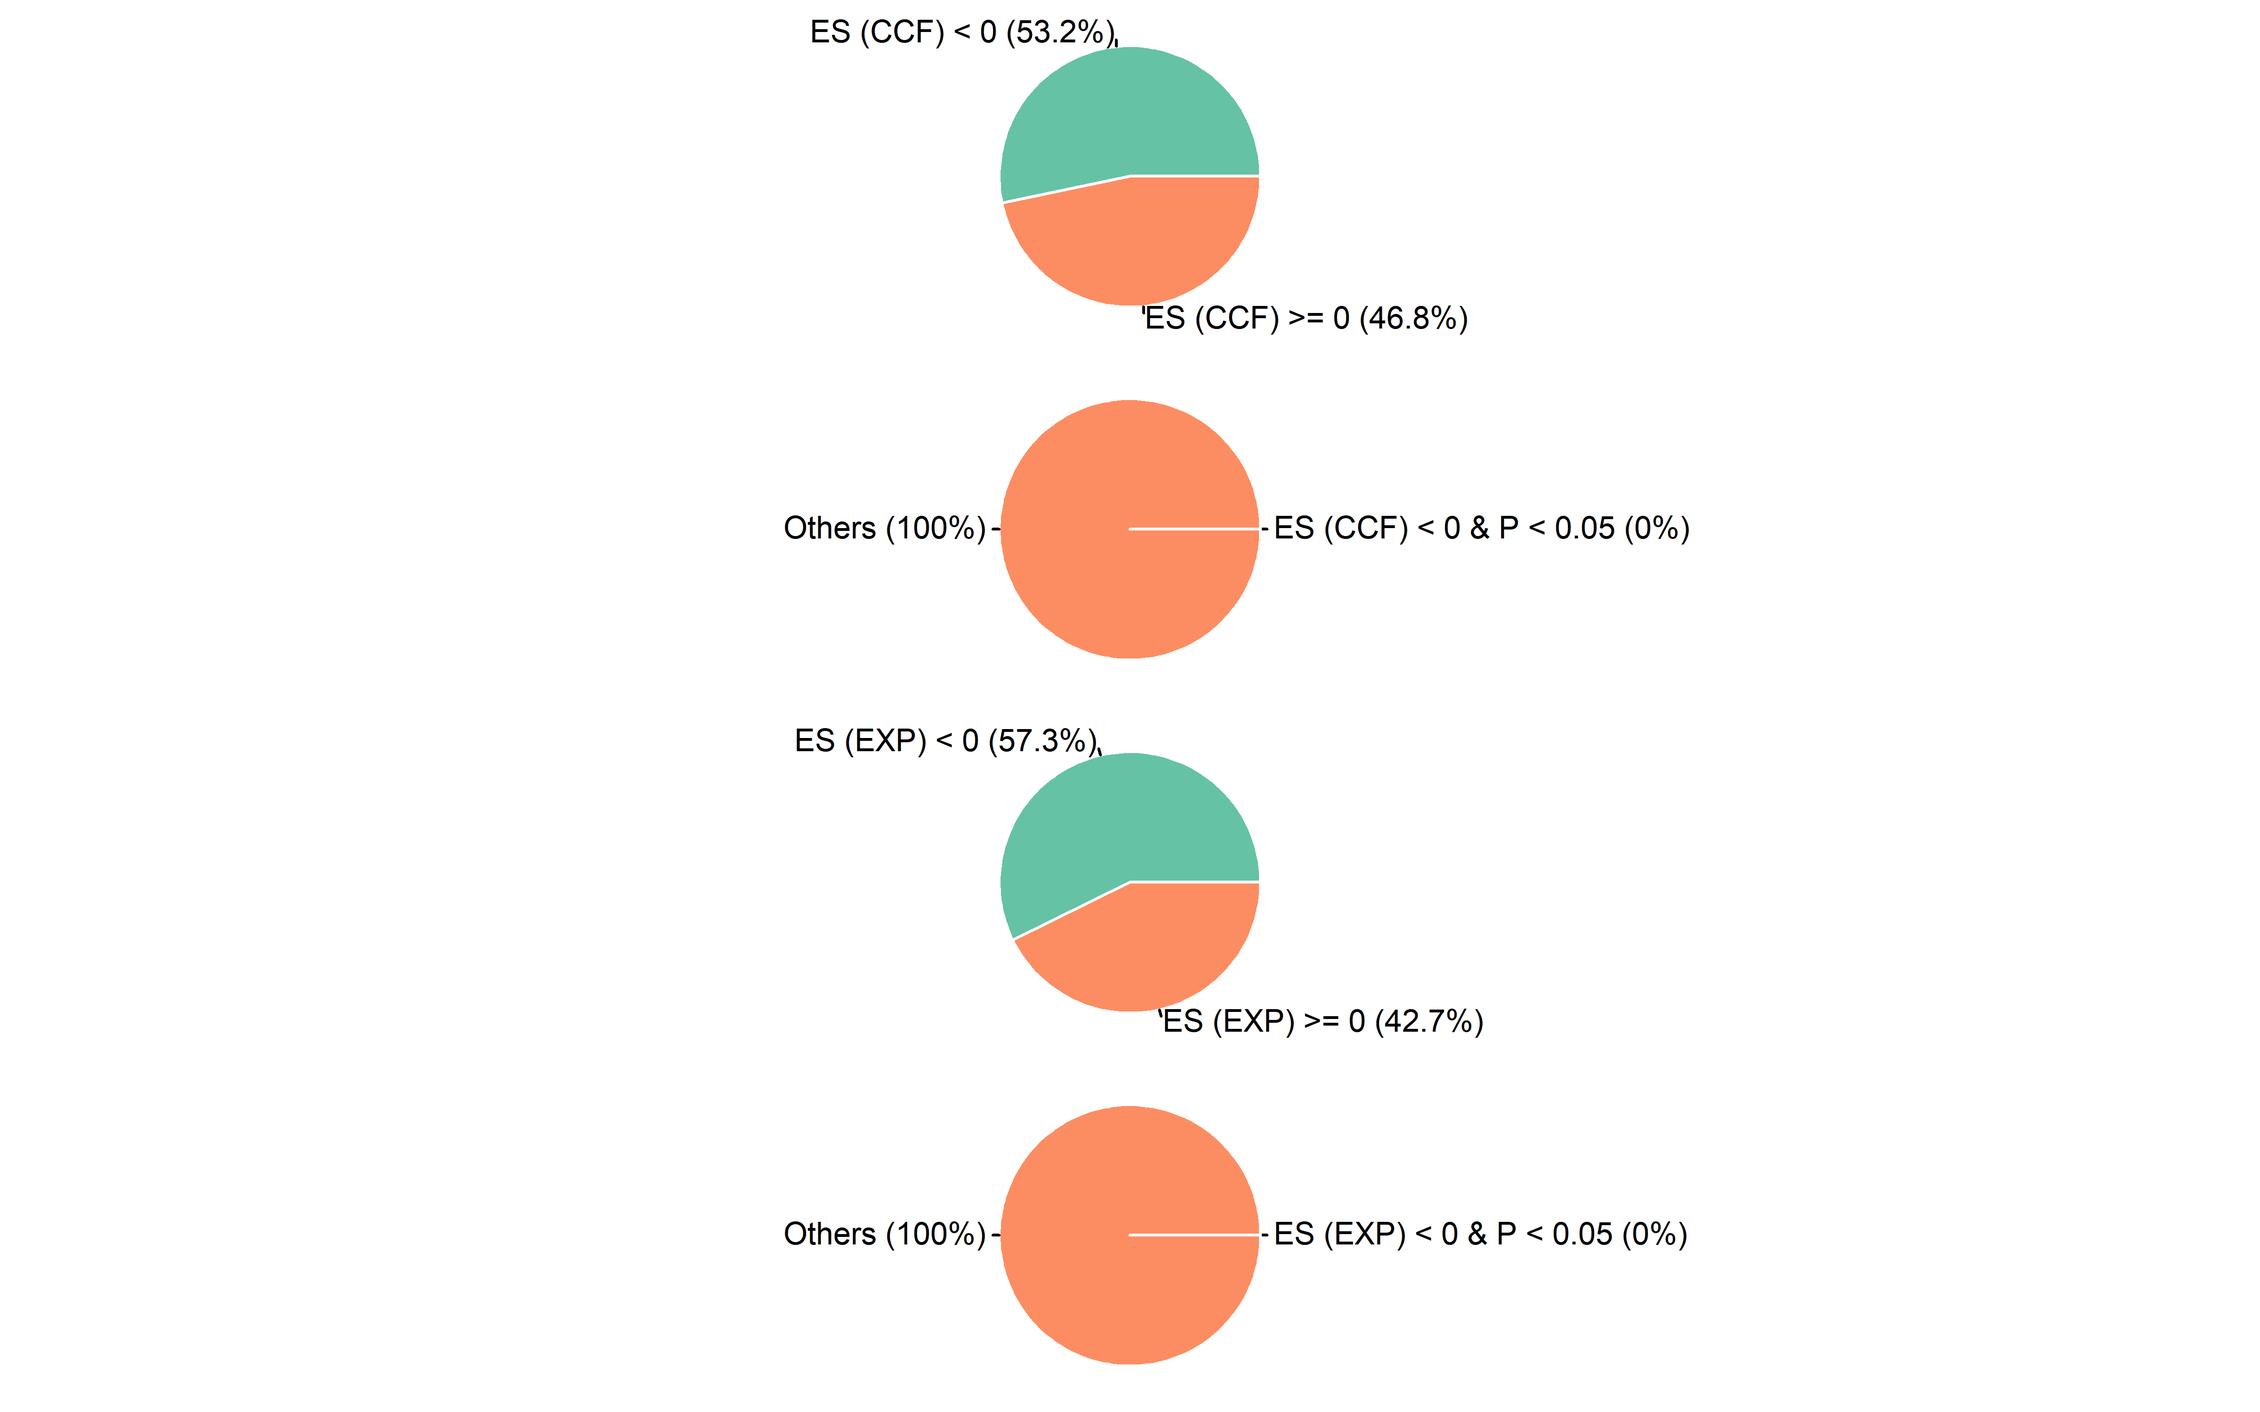
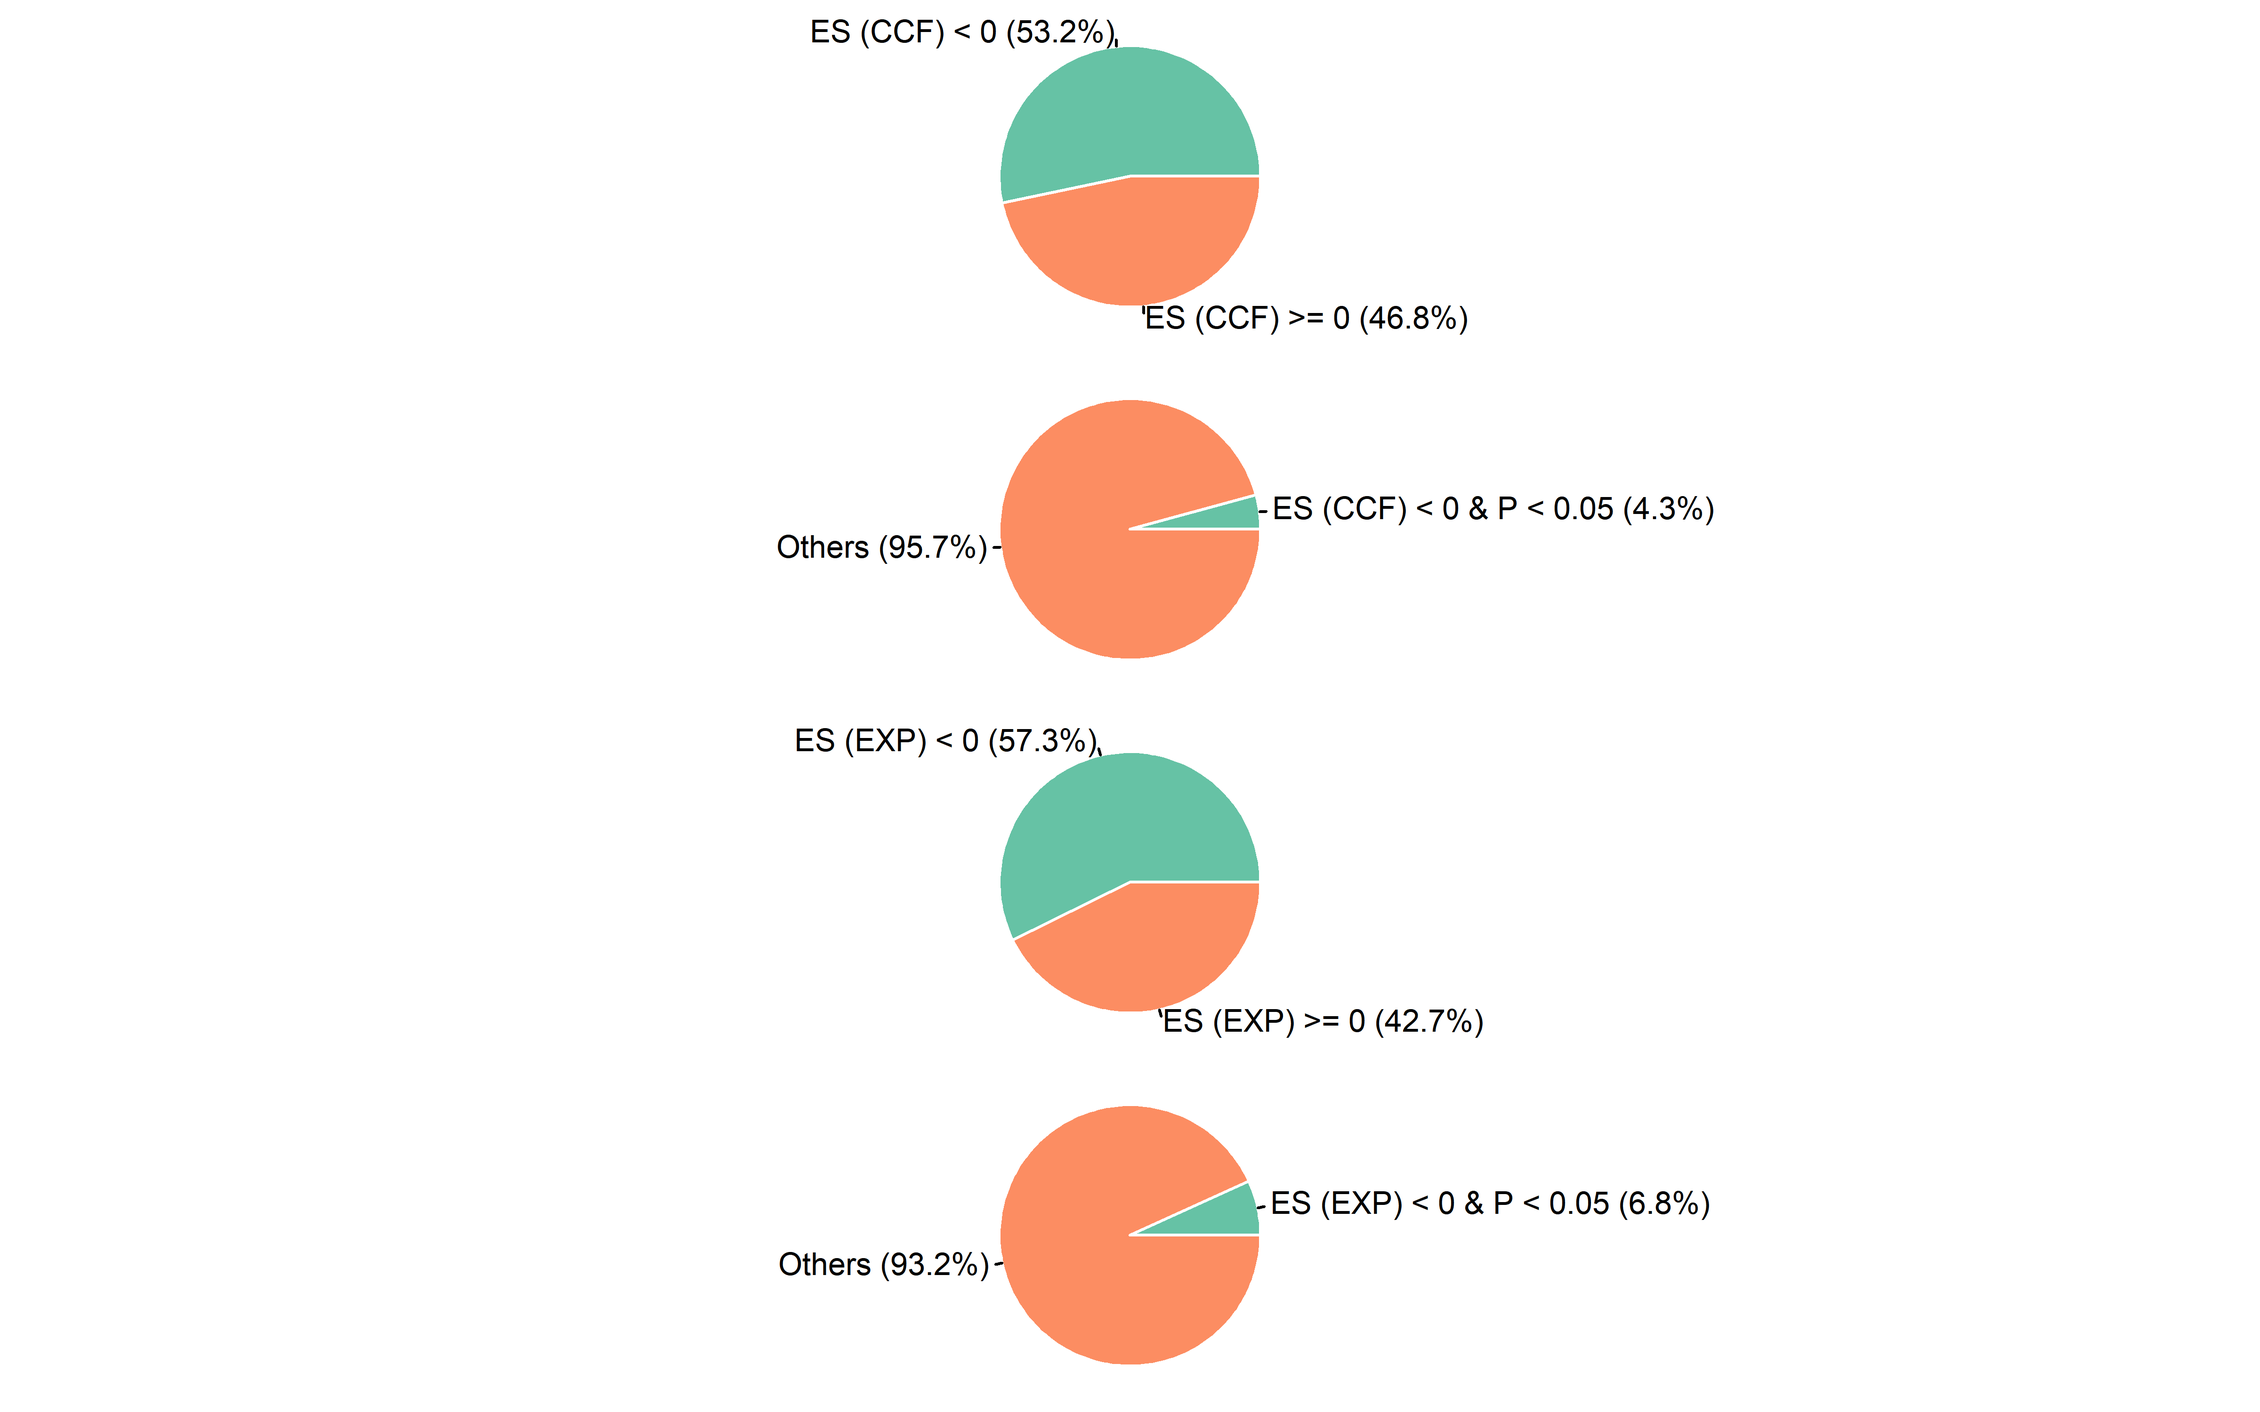
update

diff --git a/report/report_main.html b/report/report_main.html
@@ -293,8 +293,8 @@
 <span id="cb3-2"><a href="#cb3-2" aria-hidden="true" tabindex="-1"></a>DT<span class="sc">::</span><span class="fu">datatable</span>(<span class="fu">head</span>(pancancer_mutation),</span>
 <span id="cb3-3"><a href="#cb3-3" aria-hidden="true" tabindex="-1"></a>  <span class="at">options =</span> <span class="fu">list</span>(<span class="at">scrollX =</span> <span class="cn">TRUE</span>, <span class="at">keys =</span> <span class="cn">TRUE</span>), <span class="at">rownames =</span> <span class="cn">FALSE</span></span>
 <span id="cb3-4"><a href="#cb3-4" aria-hidden="true" tabindex="-1"></a>)</span></code></pre></div>
-<div id="htmlwidget-e5719218a276043094a0" style="width:100%;height:auto;" class="datatables html-widget"></div>
-<script type="application/json" data-for="htmlwidget-e5719218a276043094a0">{"x":{"filter":"none","data":[["TCGA-P6-A5OH-01A","TCGA-P6-A5OH-01A","TCGA-P6-A5OH-01A","TCGA-P6-A5OH-01A","TCGA-P6-A5OH-01A","TCGA-P6-A5OH-01A"],["WASF2","MACF1","NFIA","CADM3","DUSP27","RGSL1"],["chr1","chr1","chr1","chr1","chr1","chr1"],[27410171,39455094,61088434,159200836,167126702,182556049],[27410171,39455094,61088434,159200836,167126702,182556049],["G","T","C","G","G","G"],["A","A","T","A","C","C"],["p.A287V","p.H6923Q","p.L105F","p.D371N","p.G524A","p.E1075Q"],["missense_variant","missense_variant","missense_variant","missense_variant","missense_variant","missense_variant"],["PASS","PASS","PASS","PASS","PASS","PASS"],[0.25531914893617,0.0720720720720721,0.152671755725191,0.299479166666667,0.0555555555555556,0.2734375]],"container":"<table class=\"display\">\n  <thead>\n    <tr>\n      <th>Sample_ID<\/th>\n      <th>gene<\/th>\n      <th>chrom<\/th>\n      <th>start<\/th>\n      <th>end<\/th>\n      <th>ref<\/th>\n      <th>alt<\/th>\n      <th>Amino_Acid_Change<\/th>\n      <th>effect<\/th>\n      <th>filter<\/th>\n      <th>dna_vaf<\/th>\n    <\/tr>\n  <\/thead>\n<\/table>","options":{"scrollX":true,"keys":true,"columnDefs":[{"className":"dt-right","targets":[3,4,10]}],"order":[],"autoWidth":false,"orderClasses":false}},"evals":[],"jsHooks":[]}</script>
+<div id="htmlwidget-fd65ec6f0842ab086aec" style="width:100%;height:auto;" class="datatables html-widget"></div>
+<script type="application/json" data-for="htmlwidget-fd65ec6f0842ab086aec">{"x":{"filter":"none","data":[["TCGA-P6-A5OH-01A","TCGA-P6-A5OH-01A","TCGA-P6-A5OH-01A","TCGA-P6-A5OH-01A","TCGA-P6-A5OH-01A","TCGA-P6-A5OH-01A"],["WASF2","MACF1","NFIA","CADM3","DUSP27","RGSL1"],["chr1","chr1","chr1","chr1","chr1","chr1"],[27410171,39455094,61088434,159200836,167126702,182556049],[27410171,39455094,61088434,159200836,167126702,182556049],["G","T","C","G","G","G"],["A","A","T","A","C","C"],["p.A287V","p.H6923Q","p.L105F","p.D371N","p.G524A","p.E1075Q"],["missense_variant","missense_variant","missense_variant","missense_variant","missense_variant","missense_variant"],["PASS","PASS","PASS","PASS","PASS","PASS"],[0.25531914893617,0.0720720720720721,0.152671755725191,0.299479166666667,0.0555555555555556,0.2734375]],"container":"<table class=\"display\">\n  <thead>\n    <tr>\n      <th>Sample_ID<\/th>\n      <th>gene<\/th>\n      <th>chrom<\/th>\n      <th>start<\/th>\n      <th>end<\/th>\n      <th>ref<\/th>\n      <th>alt<\/th>\n      <th>Amino_Acid_Change<\/th>\n      <th>effect<\/th>\n      <th>filter<\/th>\n      <th>dna_vaf<\/th>\n    <\/tr>\n  <\/thead>\n<\/table>","options":{"scrollX":true,"keys":true,"columnDefs":[{"className":"dt-right","targets":[3,4,10]}],"order":[],"autoWidth":false,"orderClasses":false}},"evals":[],"jsHooks":[]}</script>
 <p>To predict neoantigen, mutation files were first transformed into single sample VCF format by maf2vcf tools (This Code can be found in <code>code/shell/TCGA_neoantigen</code> folder).</p>
 <p>ABSOLUTE-annotated MAF file which contains cancer cell fraction (CCF) information of mutations was downloaded from GDC PanCanAtlas publications (<a href="https://gdc.cancer.gov/node/905/">TCGA_consolidated.abs_mafs_truncated.fixed.txt.gz</a>), and then we used liftover function from R package “rtracklayer” to convert the this hg37 genome coordinates file to hg38 coordinates:</p>
 <div class="sourceCode" id="cb4"><pre class="sourceCode r"><code class="sourceCode r"><span id="cb4-1"><a href="#cb4-1" aria-hidden="true" tabindex="-1"></a>absolute_maf <span class="ot">&lt;-</span> data.table<span class="sc">::</span><span class="fu">fread</span>(<span class="st">&quot;~/useful_data/TCGA_consolidated.abs_mafs_truncated.fixed.txt&quot;</span>)</span>
@@ -381,8 +381,8 @@
 <span id="cb9-2"><a href="#cb9-2" aria-hidden="true" tabindex="-1"></a>DT<span class="sc">::</span><span class="fu">datatable</span>(<span class="fu">head</span>(pancancer_immune),</span>
 <span id="cb9-3"><a href="#cb9-3" aria-hidden="true" tabindex="-1"></a>  <span class="at">options =</span> <span class="fu">list</span>(<span class="at">scrollX =</span> <span class="cn">TRUE</span>, <span class="at">keys =</span> <span class="cn">TRUE</span>), <span class="at">rownames =</span> <span class="cn">FALSE</span></span>
 <span id="cb9-4"><a href="#cb9-4" aria-hidden="true" tabindex="-1"></a>)</span></code></pre></div>
-<div id="htmlwidget-4bfd59674dbe79054aec" style="width:100%;height:auto;" class="datatables html-widget"></div>
-<script type="application/json" data-for="htmlwidget-4bfd59674dbe79054aec">{"x":{"filter":"none","data":[["TCGA-OR-A5J1-01A","TCGA-OR-A5J2-01A","TCGA-OR-A5J3-01A","TCGA-OR-A5J5-01A","TCGA-OR-A5J6-01A","TCGA-OR-A5J7-01A"],[0,0,0.089,0.014,0,0.042],[0.115,0.114,0.087,0.218,0,0.069],[0.436,0.427,0.192,0.406,0.537,0.218],[0.035,0.08,0,0.003,0.105,0.02],[0.04,0.104,0.033,0.079,0.123,0.174],[0.048,0.025,0,0,0.11,0.013],[0.065,0.245,0,0,0.156,0.003],[0.158,0.152,0.069,0.004,0.148,0.025],[0.334,0.219,0,0.082,0.325,0],[0.057,0.044,0.253,0.114,0.203,0.112],[0.075,0.115,0,0.055,0.03,0.043],[0,0.087,0.061,0,0,0.041],[0.027,0.012,0,0,0.031,0],[0,0.143,0.07,0.105,0,0.043],[0.278,0.163,0.045,0.173,0.17,0.051],[0.15,0.207,0.149,0.088,0.224,0.13],[0.026,0.068,0.067,0.114,0.038,0.14],[0.104,0.095,0.076,0.148,0.172,0.086],[0.182,0.102,0.085,0.085,0.275,0.112],[0.162,0.003,0.146,0.254,0.377,0.179],[0.115,0.106,0.162,0.122,0.115,0.157],[0.089,0.07,0.13,0.151,0.09,0.06],[0.102,0.084,0.123,0.087,0.058,0.094],[0.201,0.211,0.046,0.156,0.206,0.048],[0.606,0.508,0.496,0.613,0.851,0.549]],"container":"<table class=\"display\">\n  <thead>\n    <tr>\n      <th>sample<\/th>\n      <th>CD4_naive<\/th>\n      <th>CD8_naive<\/th>\n      <th>Tc<\/th>\n      <th>Tex<\/th>\n      <th>Tr1<\/th>\n      <th>nTreg<\/th>\n      <th>iTreg<\/th>\n      <th>Th1<\/th>\n      <th>Th2<\/th>\n      <th>Th17<\/th>\n      <th>Tfh<\/th>\n      <th>Tcm<\/th>\n      <th>Tem<\/th>\n      <th>NKT<\/th>\n      <th>MAIT<\/th>\n      <th>DC<\/th>\n      <th>B_cell<\/th>\n      <th>Monocyte<\/th>\n      <th>Macrophage<\/th>\n      <th>NK<\/th>\n      <th>Neutrophil<\/th>\n      <th>Tgd<\/th>\n      <th>CD4_T<\/th>\n      <th>CD8_T<\/th>\n      <th>InfiltrationScore<\/th>\n    <\/tr>\n  <\/thead>\n<\/table>","options":{"scrollX":true,"keys":true,"columnDefs":[{"className":"dt-right","targets":[1,2,3,4,5,6,7,8,9,10,11,12,13,14,15,16,17,18,19,20,21,22,23,24,25]}],"order":[],"autoWidth":false,"orderClasses":false}},"evals":[],"jsHooks":[]}</script>
+<div id="htmlwidget-1fd2c59a30ae3a903aa7" style="width:100%;height:auto;" class="datatables html-widget"></div>
+<script type="application/json" data-for="htmlwidget-1fd2c59a30ae3a903aa7">{"x":{"filter":"none","data":[["TCGA-OR-A5J1-01A","TCGA-OR-A5J2-01A","TCGA-OR-A5J3-01A","TCGA-OR-A5J5-01A","TCGA-OR-A5J6-01A","TCGA-OR-A5J7-01A"],[0,0,0.089,0.014,0,0.042],[0.115,0.114,0.087,0.218,0,0.069],[0.436,0.427,0.192,0.406,0.537,0.218],[0.035,0.08,0,0.003,0.105,0.02],[0.04,0.104,0.033,0.079,0.123,0.174],[0.048,0.025,0,0,0.11,0.013],[0.065,0.245,0,0,0.156,0.003],[0.158,0.152,0.069,0.004,0.148,0.025],[0.334,0.219,0,0.082,0.325,0],[0.057,0.044,0.253,0.114,0.203,0.112],[0.075,0.115,0,0.055,0.03,0.043],[0,0.087,0.061,0,0,0.041],[0.027,0.012,0,0,0.031,0],[0,0.143,0.07,0.105,0,0.043],[0.278,0.163,0.045,0.173,0.17,0.051],[0.15,0.207,0.149,0.088,0.224,0.13],[0.026,0.068,0.067,0.114,0.038,0.14],[0.104,0.095,0.076,0.148,0.172,0.086],[0.182,0.102,0.085,0.085,0.275,0.112],[0.162,0.003,0.146,0.254,0.377,0.179],[0.115,0.106,0.162,0.122,0.115,0.157],[0.089,0.07,0.13,0.151,0.09,0.06],[0.102,0.084,0.123,0.087,0.058,0.094],[0.201,0.211,0.046,0.156,0.206,0.048],[0.606,0.508,0.496,0.613,0.851,0.549]],"container":"<table class=\"display\">\n  <thead>\n    <tr>\n      <th>sample<\/th>\n      <th>CD4_naive<\/th>\n      <th>CD8_naive<\/th>\n      <th>Tc<\/th>\n      <th>Tex<\/th>\n      <th>Tr1<\/th>\n      <th>nTreg<\/th>\n      <th>iTreg<\/th>\n      <th>Th1<\/th>\n      <th>Th2<\/th>\n      <th>Th17<\/th>\n      <th>Tfh<\/th>\n      <th>Tcm<\/th>\n      <th>Tem<\/th>\n      <th>NKT<\/th>\n      <th>MAIT<\/th>\n      <th>DC<\/th>\n      <th>B_cell<\/th>\n      <th>Monocyte<\/th>\n      <th>Macrophage<\/th>\n      <th>NK<\/th>\n      <th>Neutrophil<\/th>\n      <th>Tgd<\/th>\n      <th>CD4_T<\/th>\n      <th>CD8_T<\/th>\n      <th>InfiltrationScore<\/th>\n    <\/tr>\n  <\/thead>\n<\/table>","options":{"scrollX":true,"keys":true,"columnDefs":[{"className":"dt-right","targets":[1,2,3,4,5,6,7,8,9,10,11,12,13,14,15,16,17,18,19,20,21,22,23,24,25]}],"order":[],"autoWidth":false,"orderClasses":false}},"evals":[],"jsHooks":[]}</script>
 </div>
 </div>
 <div id="tcga-pancancer-data-processing" class="section level2">
@@ -1819,14 +1819,14 @@
 <span id="cb45-9"><a href="#cb45-9" aria-hidden="true" tabindex="-1"></a>op <span class="ot">&lt;-</span> <span class="fu">par</span>(<span class="at">mar =</span> <span class="fu">rep</span>(<span class="dv">0</span>, <span class="dv">4</span>))</span>
 <span id="cb45-10"><a href="#cb45-10" aria-hidden="true" tabindex="-1"></a><span class="fu">plot_pie</span>(ccf_es,<span class="at">expression =</span> <span class="st">&quot;ccf_es&lt;0&quot;</span>,<span class="fu">c</span>(<span class="st">&quot;ES (CCF) &lt; 0&quot;</span>,<span class="st">&quot;ES (CCF) &gt;= 0&quot;</span>))</span>
 <span id="cb45-11"><a href="#cb45-11" aria-hidden="true" tabindex="-1"></a><span class="co">#&gt; NULL</span></span>
-<span id="cb45-12"><a href="#cb45-12" aria-hidden="true" tabindex="-1"></a><span class="fu">plot_pie</span>(ccf_es1,<span class="at">expression =</span> <span class="st">&quot;ccf_es1==&#39;ES (CCF) &lt; 0 &amp; P &lt; 0.05&#39;&quot;</span>,<span class="fu">c</span>(<span class="st">&quot;ES (CCF) &lt; 0 &amp; P &lt; 0.05&quot;</span>,<span class="st">&quot;Others&quot;</span>))</span>
+<span id="cb45-12"><a href="#cb45-12" aria-hidden="true" tabindex="-1"></a><span class="fu">plot_pie</span>(ccf_es1,<span class="at">expression =</span> <span class="st">&quot;ccf_es1==&#39;ES &lt; 0 &amp; P &lt; 0.05&#39;&quot;</span>,<span class="fu">c</span>(<span class="st">&quot;ES (CCF) &lt; 0 &amp; P &lt; 0.05&quot;</span>,<span class="st">&quot;Others&quot;</span>))</span>
 <span id="cb45-13"><a href="#cb45-13" aria-hidden="true" tabindex="-1"></a><span class="co">#&gt; NULL</span></span>
 <span id="cb45-14"><a href="#cb45-14" aria-hidden="true" tabindex="-1"></a></span>
 <span id="cb45-15"><a href="#cb45-15" aria-hidden="true" tabindex="-1"></a>exp_es <span class="ot">&lt;-</span> pancancer_exp<span class="sc">$</span>es</span>
 <span id="cb45-16"><a href="#cb45-16" aria-hidden="true" tabindex="-1"></a>exp_es1 <span class="ot">&lt;-</span> pancancer_exp<span class="sc">$</span>es_type2</span>
 <span id="cb45-17"><a href="#cb45-17" aria-hidden="true" tabindex="-1"></a><span class="fu">plot_pie</span>(exp_es,<span class="at">expression =</span> <span class="st">&quot;exp_es&lt;0&quot;</span>,<span class="fu">c</span>(<span class="st">&quot;ES (EXP) &lt; 0&quot;</span>,<span class="st">&quot;ES (EXP) &gt;= 0&quot;</span>))</span>
 <span id="cb45-18"><a href="#cb45-18" aria-hidden="true" tabindex="-1"></a><span class="co">#&gt; NULL</span></span>
-<span id="cb45-19"><a href="#cb45-19" aria-hidden="true" tabindex="-1"></a><span class="fu">plot_pie</span>(exp_es1,<span class="at">expression =</span> <span class="st">&quot;exp_es1==&#39;ES (EXP) &lt; 0 &amp; P &lt; 0.05&#39;&quot;</span>,<span class="fu">c</span>(<span class="st">&quot;ES (EXP) &lt; 0 &amp; P &lt; 0.05&quot;</span>,<span class="st">&quot;Others&quot;</span>))</span></code></pre></div>
+<span id="cb45-19"><a href="#cb45-19" aria-hidden="true" tabindex="-1"></a><span class="fu">plot_pie</span>(exp_es1,<span class="at">expression =</span> <span class="st">&quot;exp_es1==&#39;ES &lt; 0 &amp; P &lt; 0.05&#39;&quot;</span>,<span class="fu">c</span>(<span class="st">&quot;ES (EXP) &lt; 0 &amp; P &lt; 0.05&quot;</span>,<span class="st">&quot;Others&quot;</span>))</span></code></pre></div>
 <p><img src="report_main_files/figure-html/unnamed-chunk-26-1.png" width="2400" /></p>
 <pre><code>#&gt; NULL</code></pre>
 <p>The immune-thearpy dataset sample distribution and clinical parameters:</p>
@@ -1967,7 +1967,7 @@
 <span id="cb52-13"><a href="#cb52-13" aria-hidden="true" tabindex="-1"></a><span class="co">#&gt;   FLG</span></span>
 <span id="cb52-14"><a href="#cb52-14" aria-hidden="true" tabindex="-1"></a><span class="co">#&gt; -Processing clinical data</span></span>
 <span id="cb52-15"><a href="#cb52-15" aria-hidden="true" tabindex="-1"></a><span class="co">#&gt; --Missing clinical data</span></span>
-<span id="cb52-16"><a href="#cb52-16" aria-hidden="true" tabindex="-1"></a><span class="co">#&gt; -Finished in 5.490s elapsed (4.280s cpu)</span></span>
+<span id="cb52-16"><a href="#cb52-16" aria-hidden="true" tabindex="-1"></a><span class="co">#&gt; -Finished in 5.090s elapsed (3.860s cpu)</span></span>
 <span id="cb52-17"><a href="#cb52-17" aria-hidden="true" tabindex="-1"></a><span class="fu">oncoplot</span>(<span class="at">maf =</span> willy_maf,<span class="at">top=</span><span class="dv">10</span>,<span class="at">draw_titv =</span> <span class="cn">TRUE</span>)</span></code></pre></div>
 <p><img src="report_main_files/figure-html/unnamed-chunk-31-2.png" width="2400" /></p>
 <div class="sourceCode" id="cb53"><pre class="sourceCode r"><code class="sourceCode r"><span id="cb53-1"><a href="#cb53-1" aria-hidden="true" tabindex="-1"></a></span>
@@ -1985,7 +1985,7 @@
 <span id="cb53-13"><a href="#cb53-13" aria-hidden="true" tabindex="-1"></a><span class="co">#&gt;   OBSCN</span></span>
 <span id="cb53-14"><a href="#cb53-14" aria-hidden="true" tabindex="-1"></a><span class="co">#&gt; -Processing clinical data</span></span>
 <span id="cb53-15"><a href="#cb53-15" aria-hidden="true" tabindex="-1"></a><span class="co">#&gt; --Missing clinical data</span></span>
-<span id="cb53-16"><a href="#cb53-16" aria-hidden="true" tabindex="-1"></a><span class="co">#&gt; -Finished in 4.060s elapsed (2.930s cpu)</span></span>
+<span id="cb53-16"><a href="#cb53-16" aria-hidden="true" tabindex="-1"></a><span class="co">#&gt; -Finished in 3.720s elapsed (2.930s cpu)</span></span>
 <span id="cb53-17"><a href="#cb53-17" aria-hidden="true" tabindex="-1"></a><span class="fu">oncoplot</span>(<span class="at">maf =</span> nadeem_maf,<span class="at">top=</span><span class="dv">10</span>,<span class="at">draw_titv =</span> <span class="cn">TRUE</span>)</span></code></pre></div>
 <p><img src="report_main_files/figure-html/unnamed-chunk-31-3.png" width="2400" /></p>
 </div>
